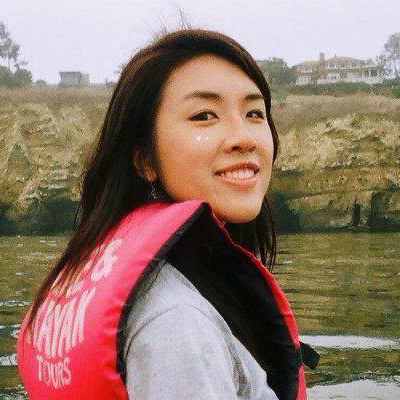
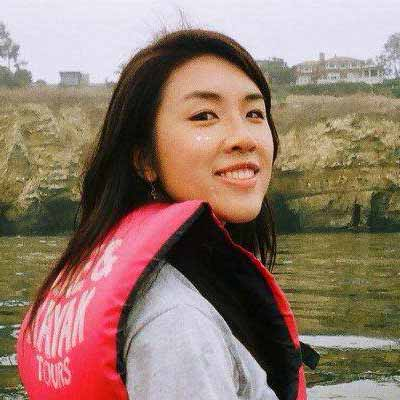
Optimized images, disabled pretty url
Enabling pretty urls prevents the clip path from correctly cropping the
head shots into circles, so disabling for now

diff --git a/script.js b/script.js
@@ -49,5 +49,5 @@ weddingApp.config(function($routeProvider, $locationProvider) {
     //   redirectTo : '/'
     // });
   // TODO: Resolve localhost issue to enable the pretty urls 
-  $locationProvider.html5Mode(true);
+  // $locationProvider.html5Mode(true);
 });

diff --git a/index.html b/index.html
@@ -35,7 +35,7 @@
     <script>
       var myDataRef = new Firebase('https://cu3bfdjm8tr.firebaseio-demo.com/');
     </script>
-    <base href="/">
+    <!-- <base href="/"> -->
   </head>
   <body data-ng-controller="mainController">
 
